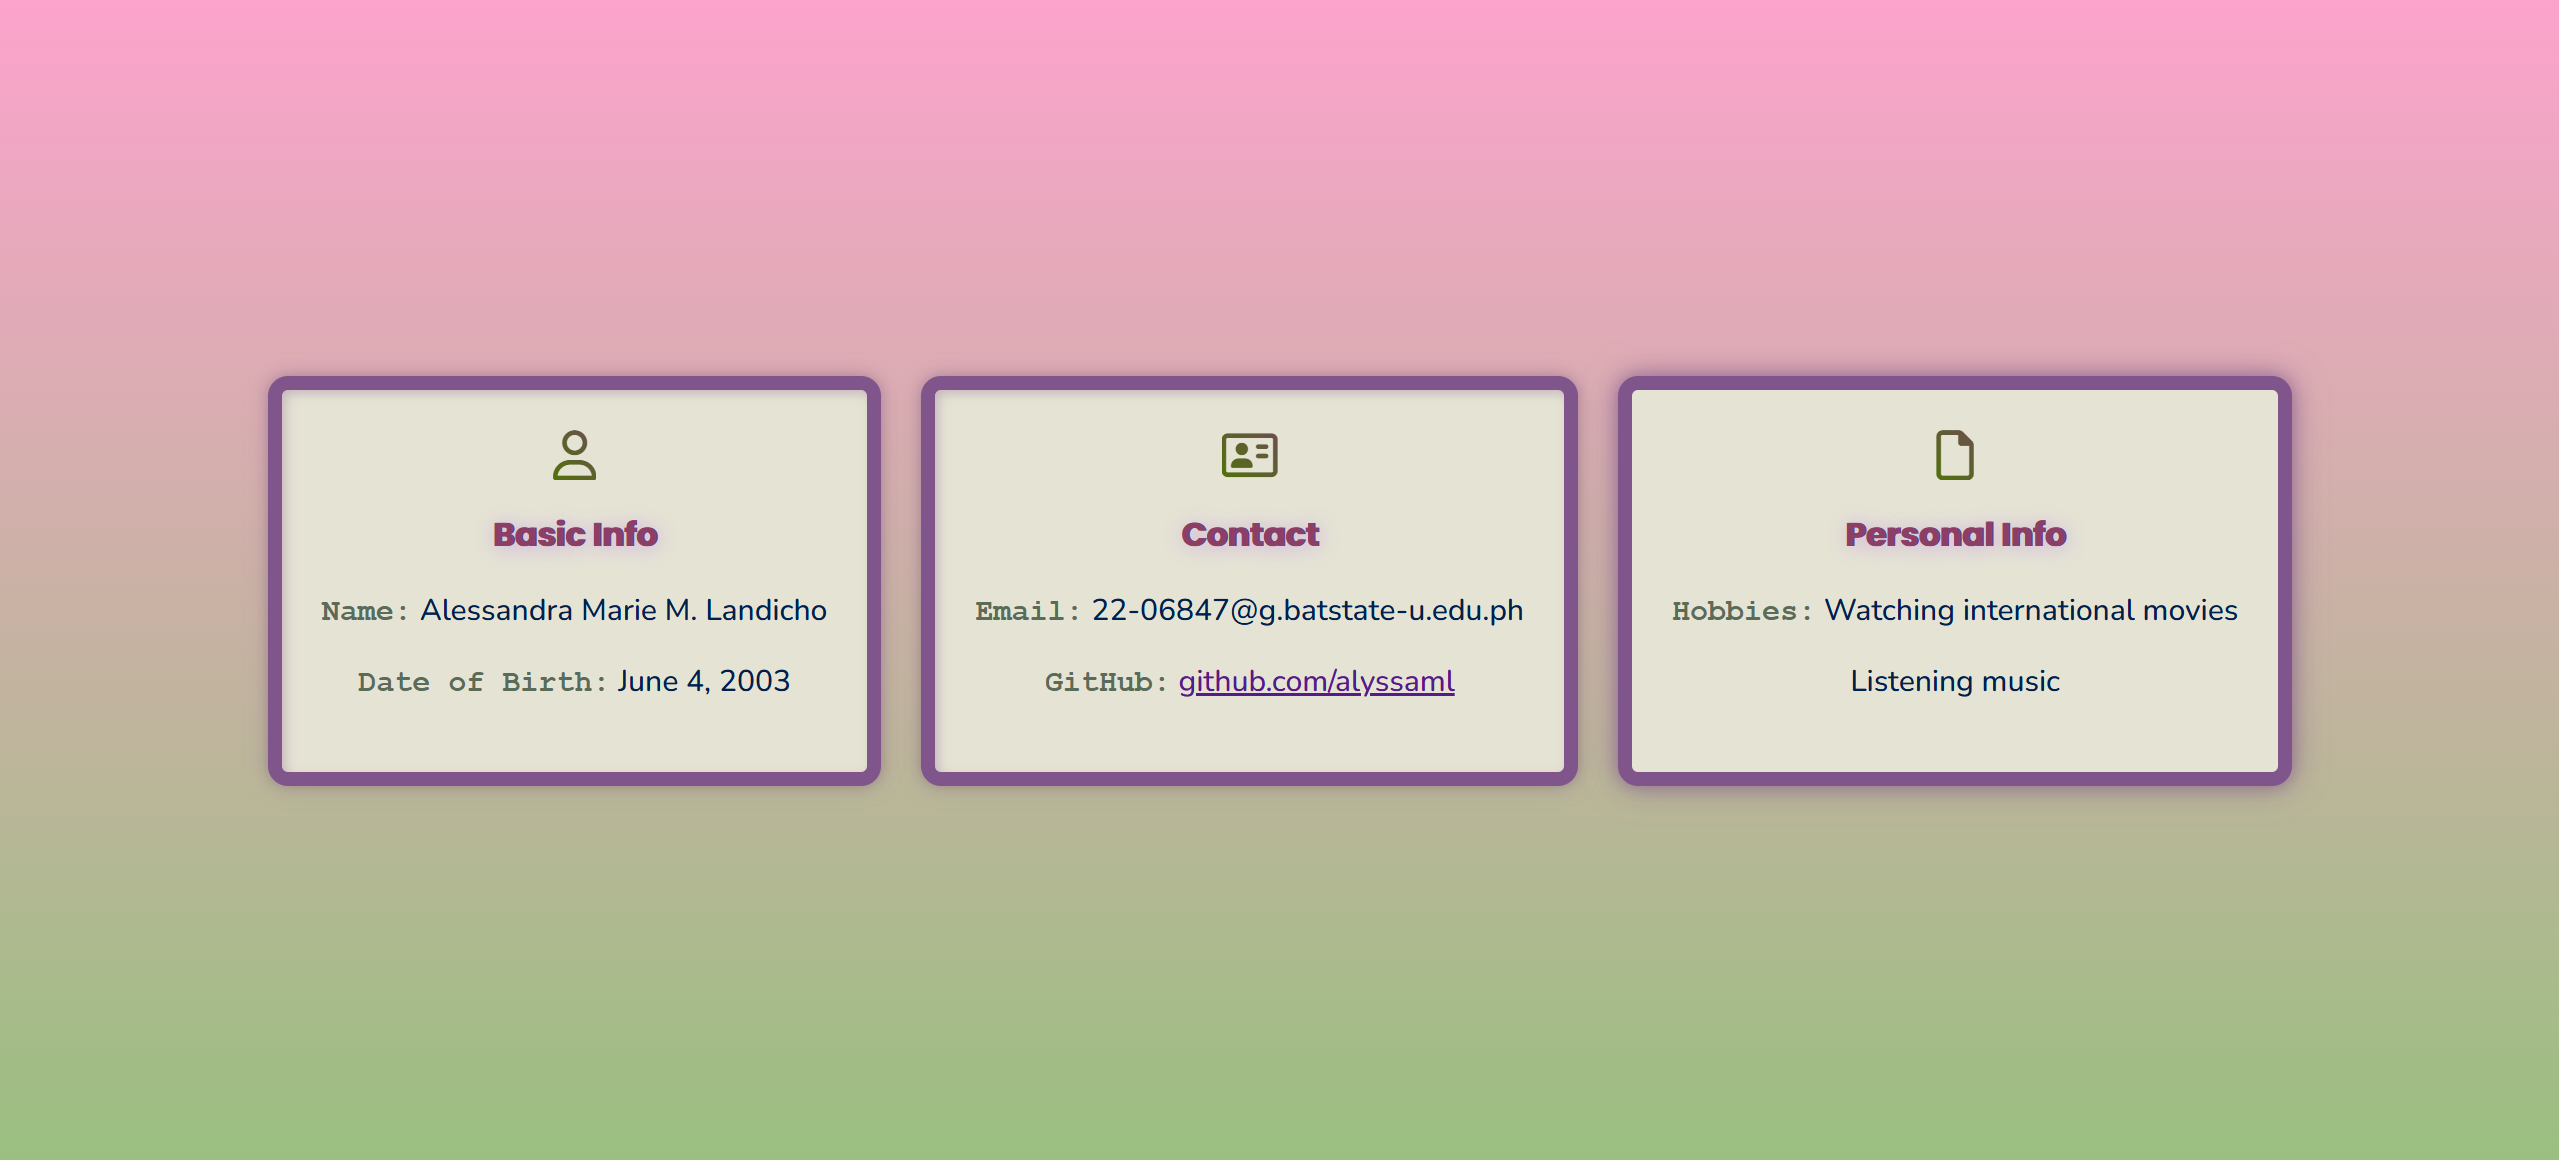
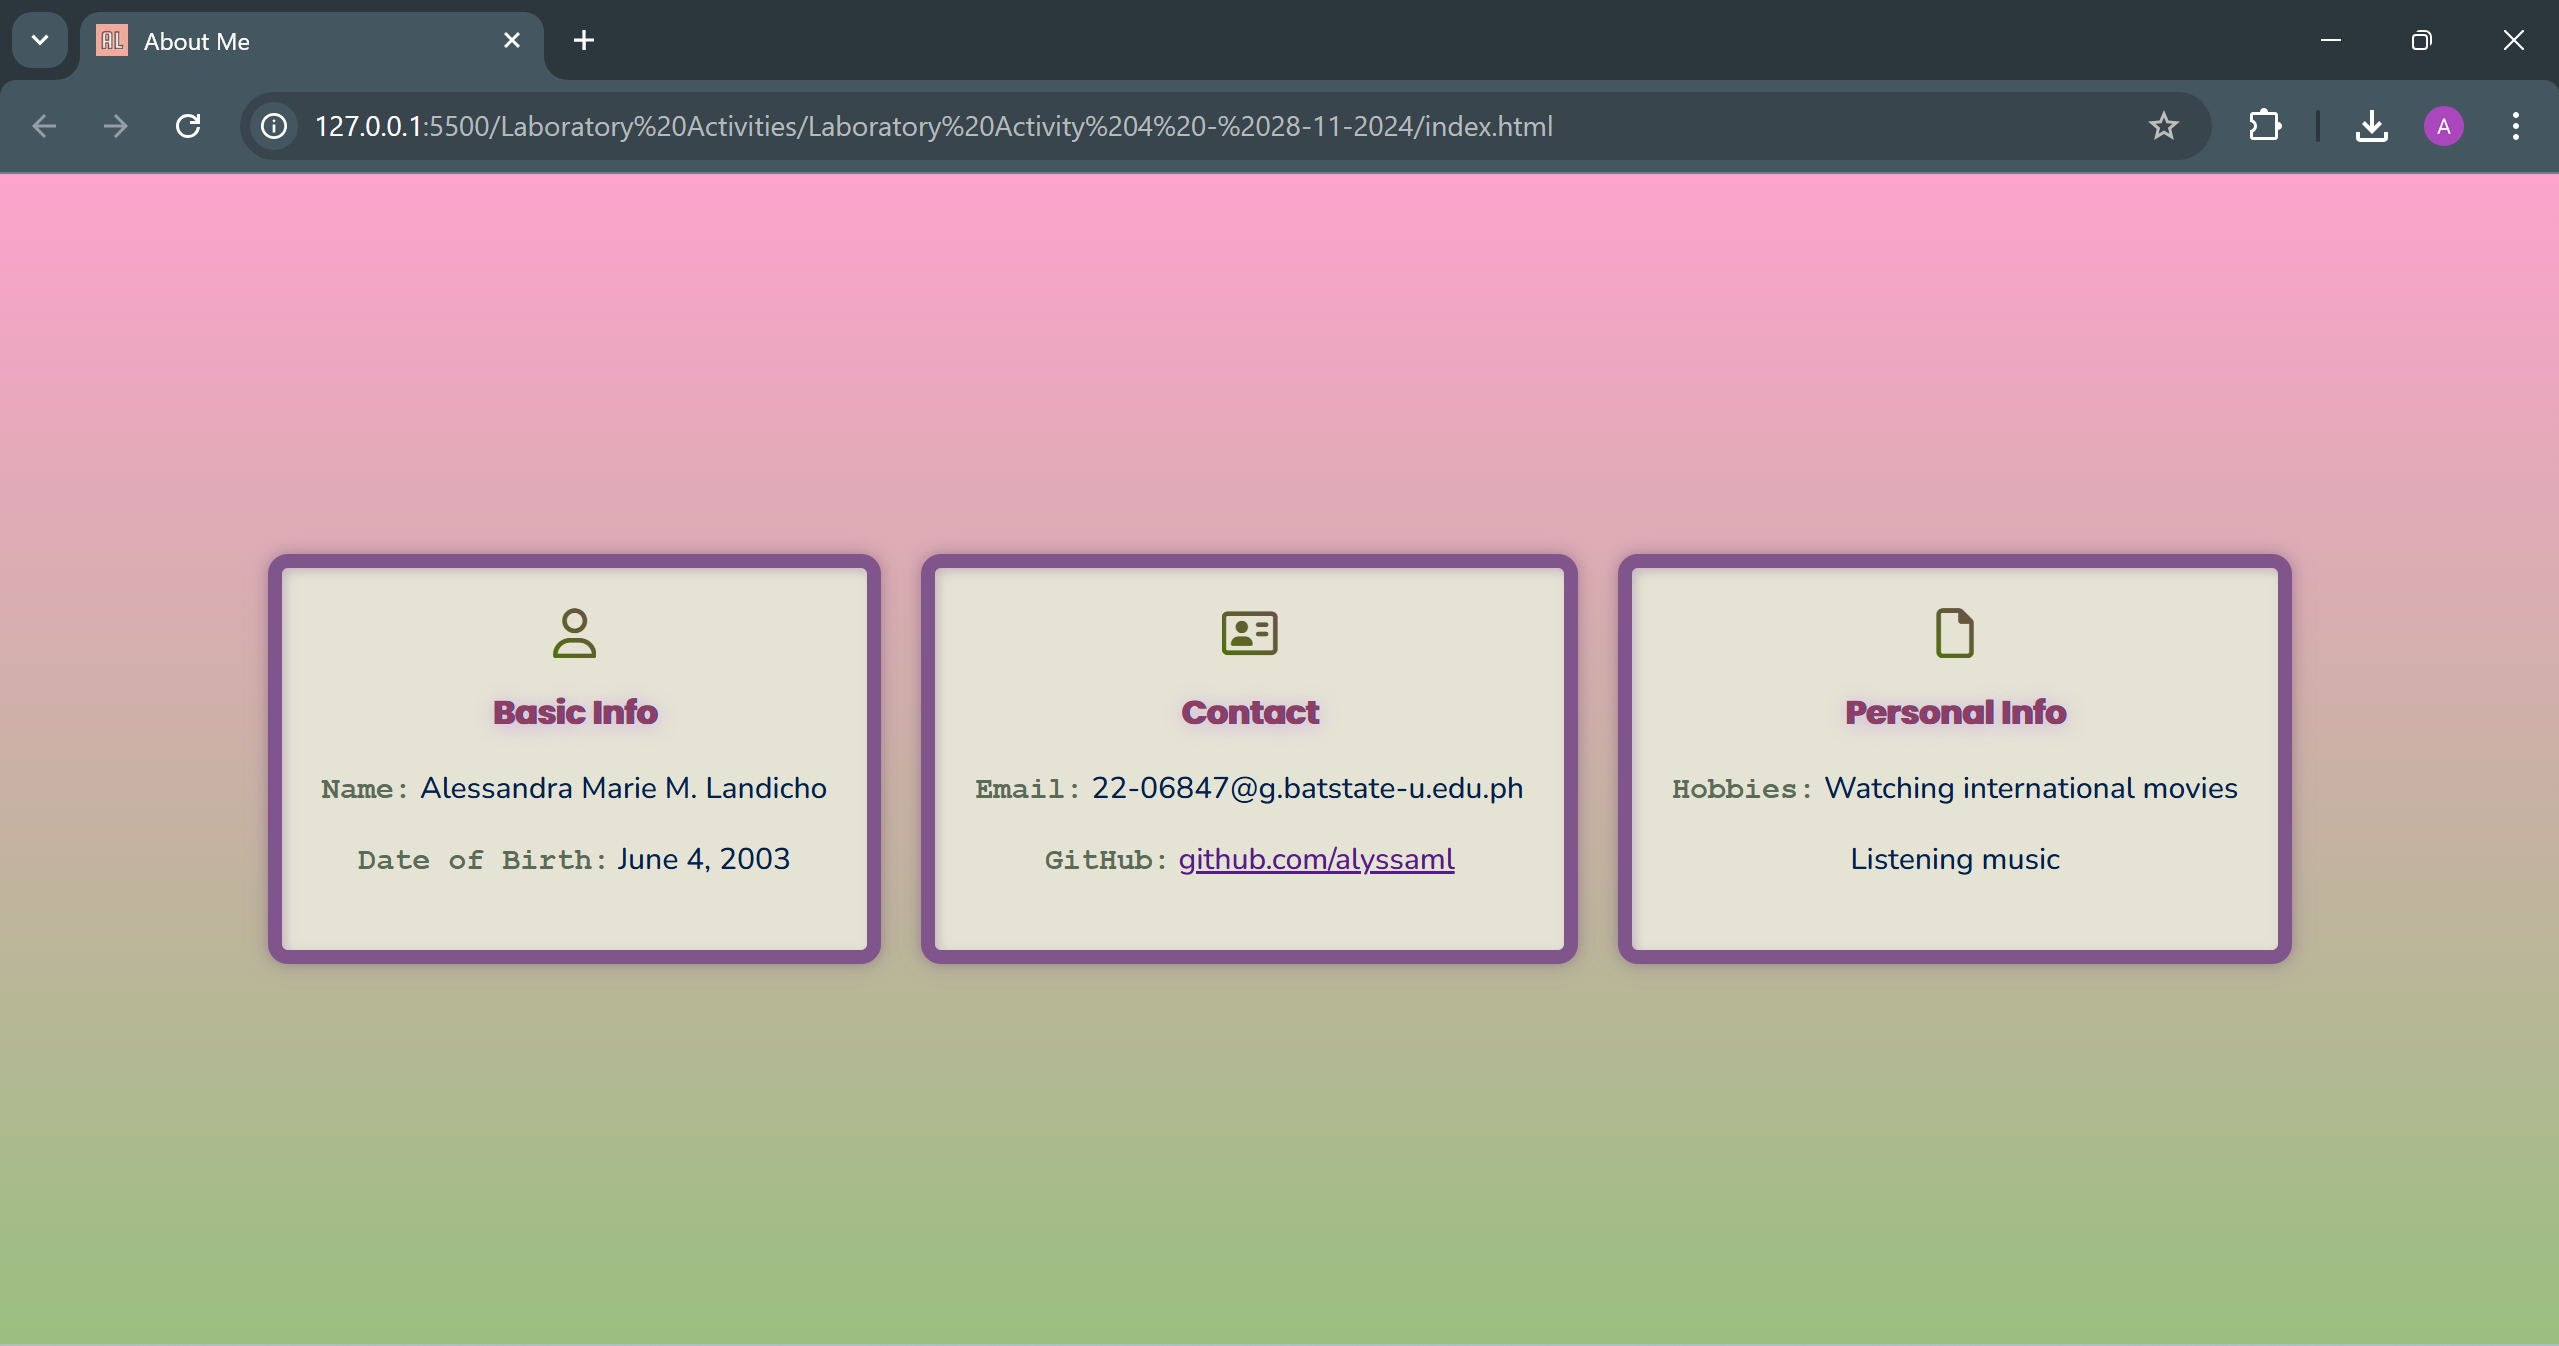
update

Changed region(s): [[0.0926, 0.3103, 0.9261, 0.7448], [0.0, 0.0, 1.0, 0.1552], [0.0, 0.9931, 1.0, 1.0]]

diff --git a/Laboratory Activities/Laboratory Activity 4 - 28-11-2024/index.html b/Laboratory Activities/Laboratory Activity 4 - 28-11-2024/index.html
@@ -4,10 +4,13 @@
         <link rel="stylesheet" href="styles.css">
         <link rel="stylesheet" href="https://cdnjs.cloudflare.com/ajax/libs/font-awesome/6.6.0/css/all.min.css" 
         integrity="sha512-Kc323vGBEqzTmouAECnVceyQqyqdsSiqLQISBL29aUW4U/M7pSPA/gEUZQqv1cwx4OnYxTxve5UMg5GT6L4JJg==" 
-        crossorigin="anonymous" referrerpolicy="no-referrer" />      
+        crossorigin="anonymous" referrerpolicy="no-referrer" />   
+        <link rel="shortcut icon" href="assets/AL.ico" type="image/x-icon">   
         <link rel="preconnect" href="https://fonts.googleapis.com">
         <link rel="preconnect" href="https://fonts.gstatic.com" crossorigin>
         <link href="https://fonts.googleapis.com/css2?family=Montserrat:ital,wght@0,100..900;1,100..900&family=Nunito:ital,wght@0,200..1000;1,200..1000&family=Patua+One&family=Poppins:ital,wght@0,100;0,200;0,300;0,400;0,500;0,600;0,700;0,800;0,900;1,100;1,200;1,300;1,400;1,500;1,600;1,700;1,800;1,900&display=swap" rel="stylesheet">
+    </head>    
+    <title>About Me</title>
     <body>
         <div class="flex-container">
             <div>
